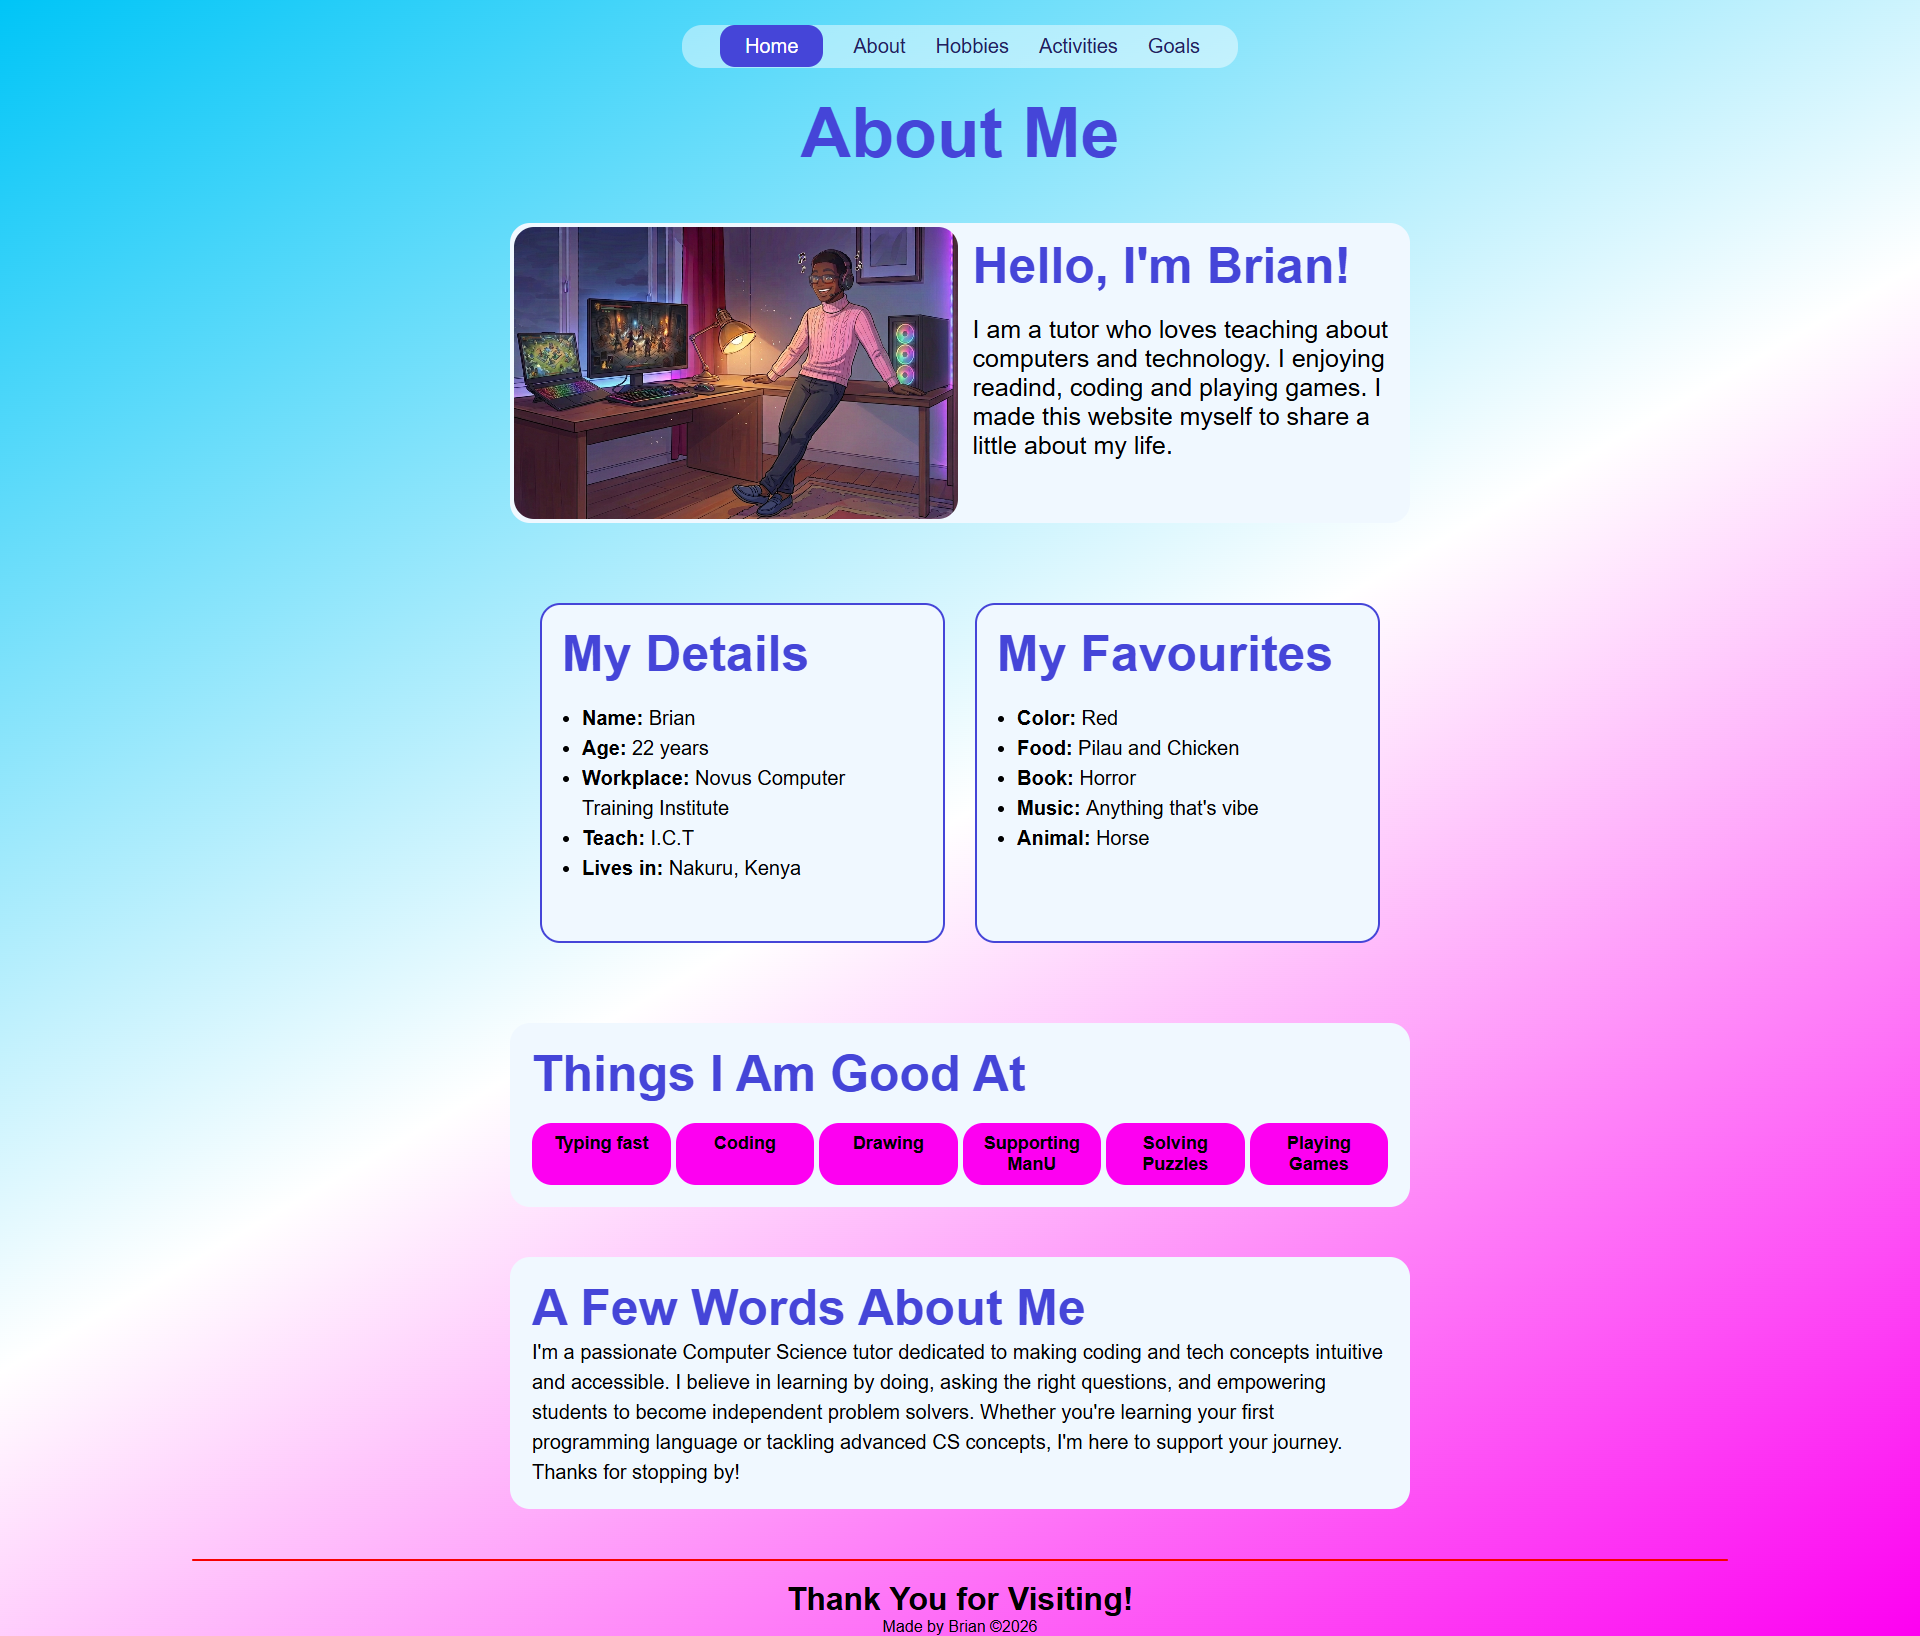
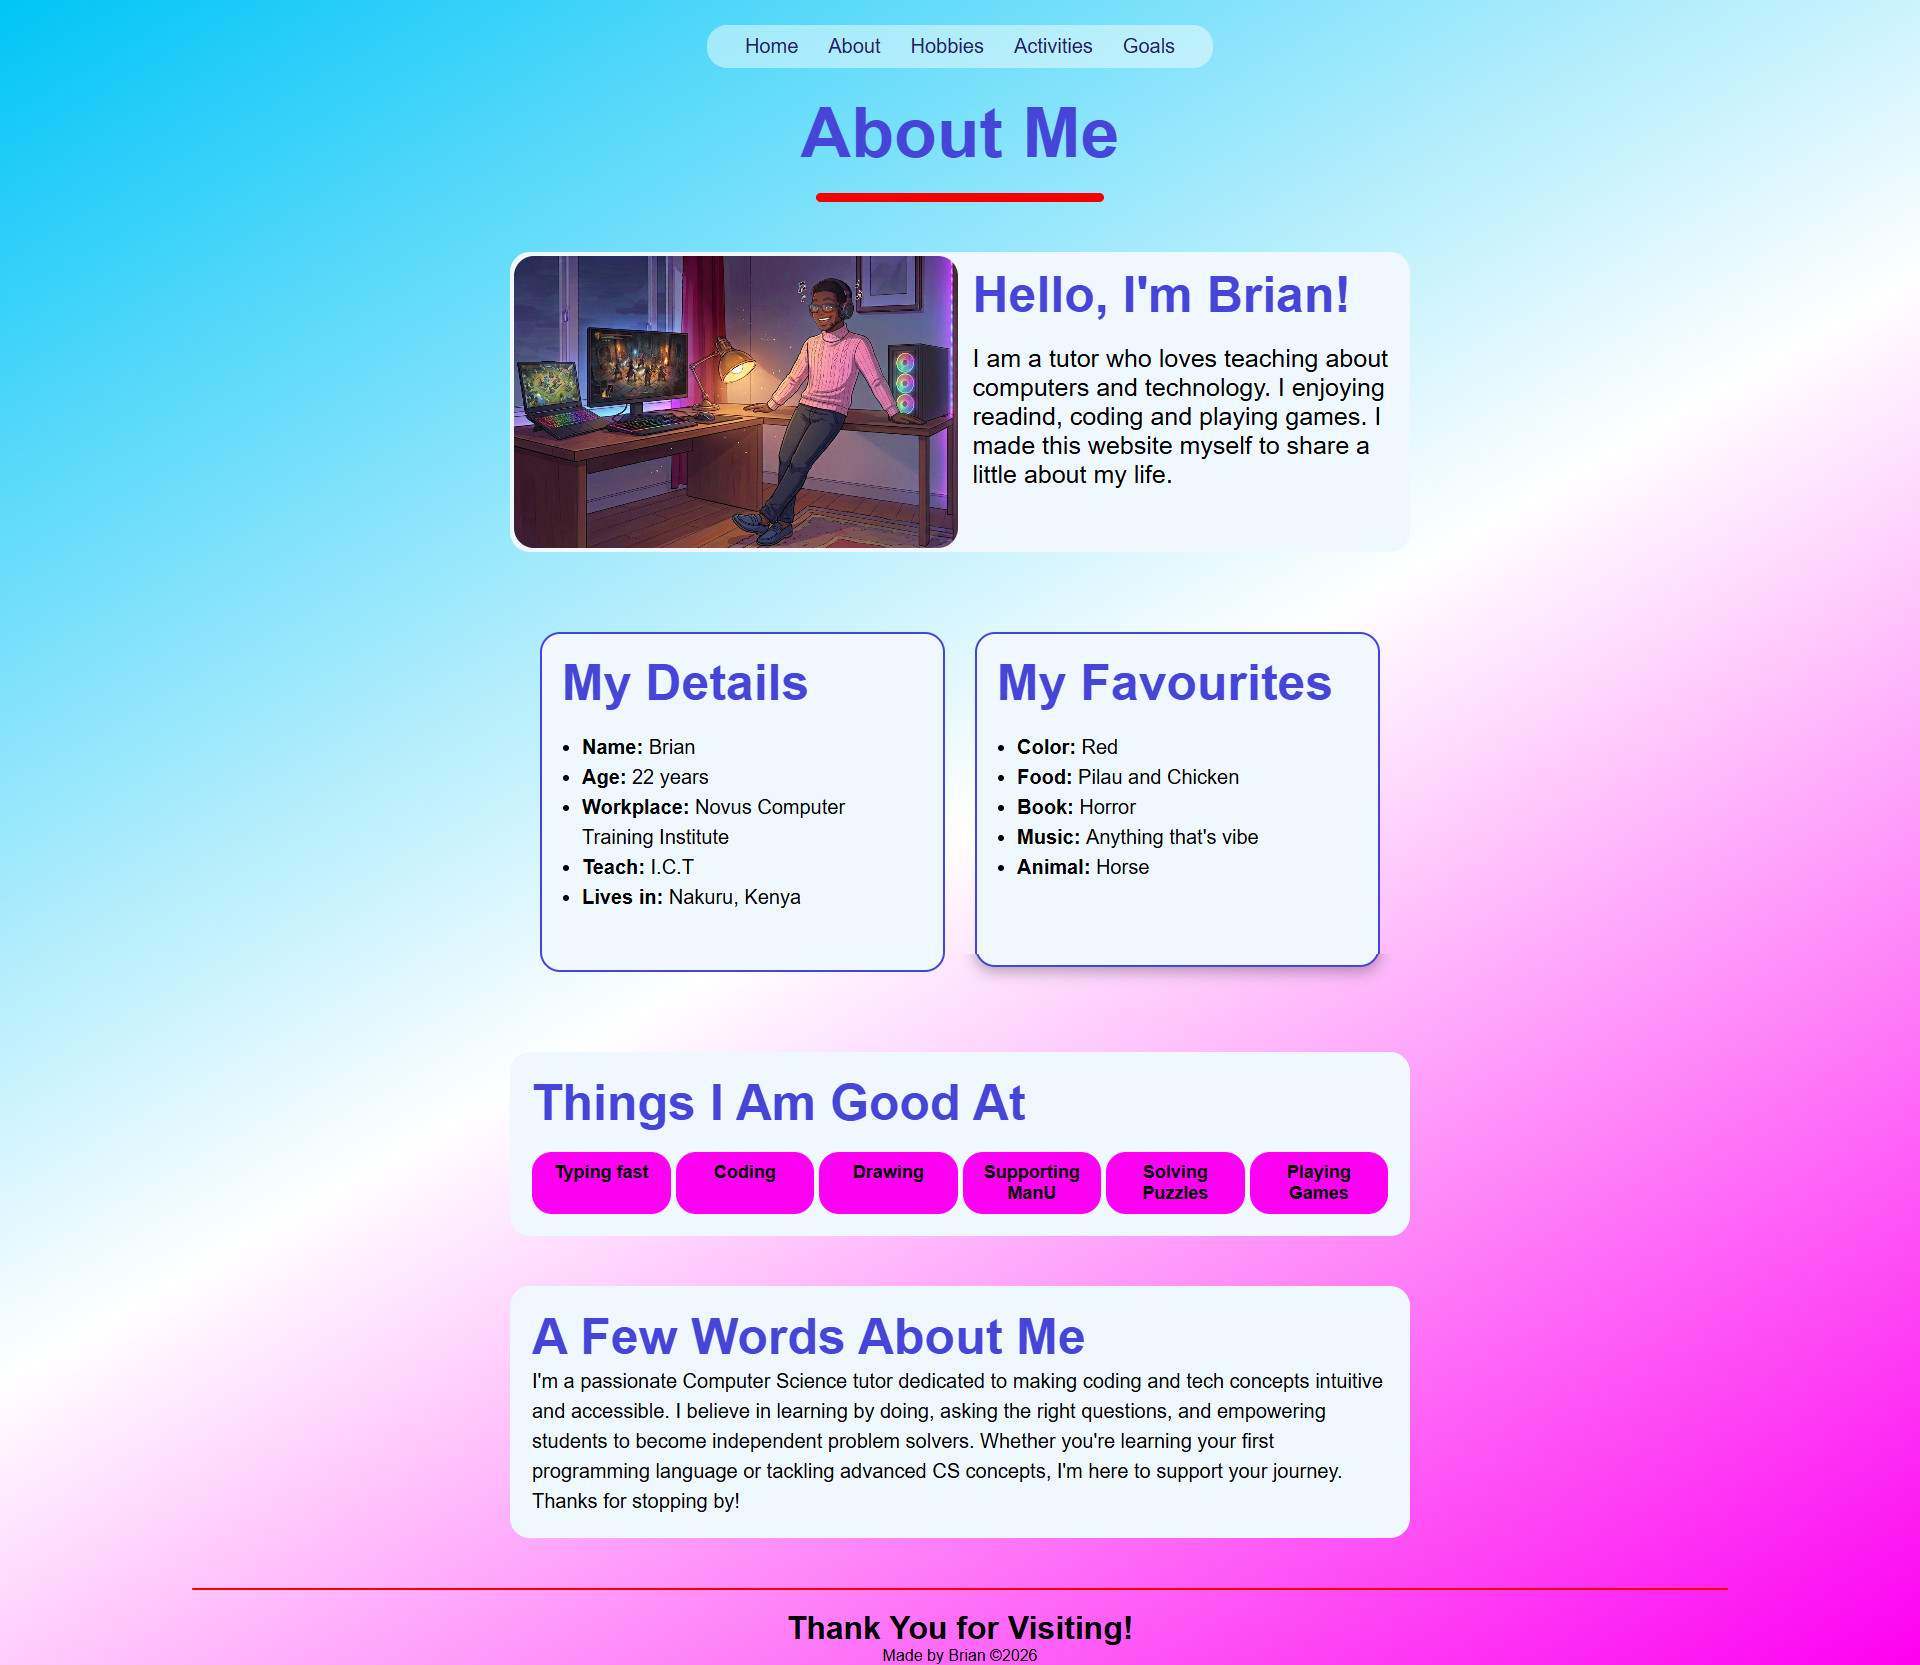
updated readme

diff --git a/webpages/index.html b/webpages/index.html
@@ -11,7 +11,7 @@
     <section class="nav">
       <nav class="nav-links">
         <ul>
-          <li><a href="index.html" class="active">Home</a></li>
+          <li><a href="index.html">Home</a></li>
           <li><a href="about.html">About</a></li>
           <li><a href="hobby.html">Hobbies</a></li>
           <li><a href="activity.html">Activities</a></li>
@@ -20,6 +20,9 @@
       </nav>
       <h1>Brian's Homepage</h1>
     </section>
+
+    <hr class="linetop" />
+
     <!--About and hobbies section-->
     <section class="card">
       <!--about me-->

diff --git a/webpages/about.html b/webpages/about.html
@@ -12,7 +12,7 @@
     <section class="nav">
       <nav class="nav-links">
         <ul>
-          <li><a href="index.html" class="active">Home</a></li>
+          <li><a href="index.html">Home</a></li>
           <li><a href="about.html">About</a></li>
           <li><a href="hobby.html">Hobbies</a></li>
           <li><a href="activity.html">Activities</a></li>
@@ -21,6 +21,8 @@
       </nav>
       <h1>About Me</h1>
     </section>
+
+    <hr class="linetop" />
 
     <!--My about me-->
     <section class="brayo">

diff --git a/css/style.css b/css/style.css
@@ -33,7 +33,7 @@ body {
   font-size: 20px;
 }
 
-.nav-links a.active {
+.nav-links a:hover {
   background-color: #4545d8;
   color: white;
   padding: 10px 25px;
@@ -45,6 +45,15 @@ body {
   font-weight: bold;
   text-align: center;
   color: #4545d8;
+}
+
+.linetop {
+  border: none;
+  height: 9px;
+  background-color: #f80000;
+  width: 15%;
+  margin: 20px auto;
+  border-radius: 5px;
 }
 
 /* end of styling nav */

diff --git a/README.md b/README.md
@@ -61,5 +61,5 @@ This project guides students through building a colorful, structured personal pr
 
 \*\*\*\*THE WEBPAGE DOSE NOT HAVE RESPONSIVENESS CODE IN IT\*\*\*
 
-![How the home will look like](images/final%20coppy.png)
+![How the home will look like](images/homefinal.png)
 ![How the about will look like](images/aboutfinal.png)
